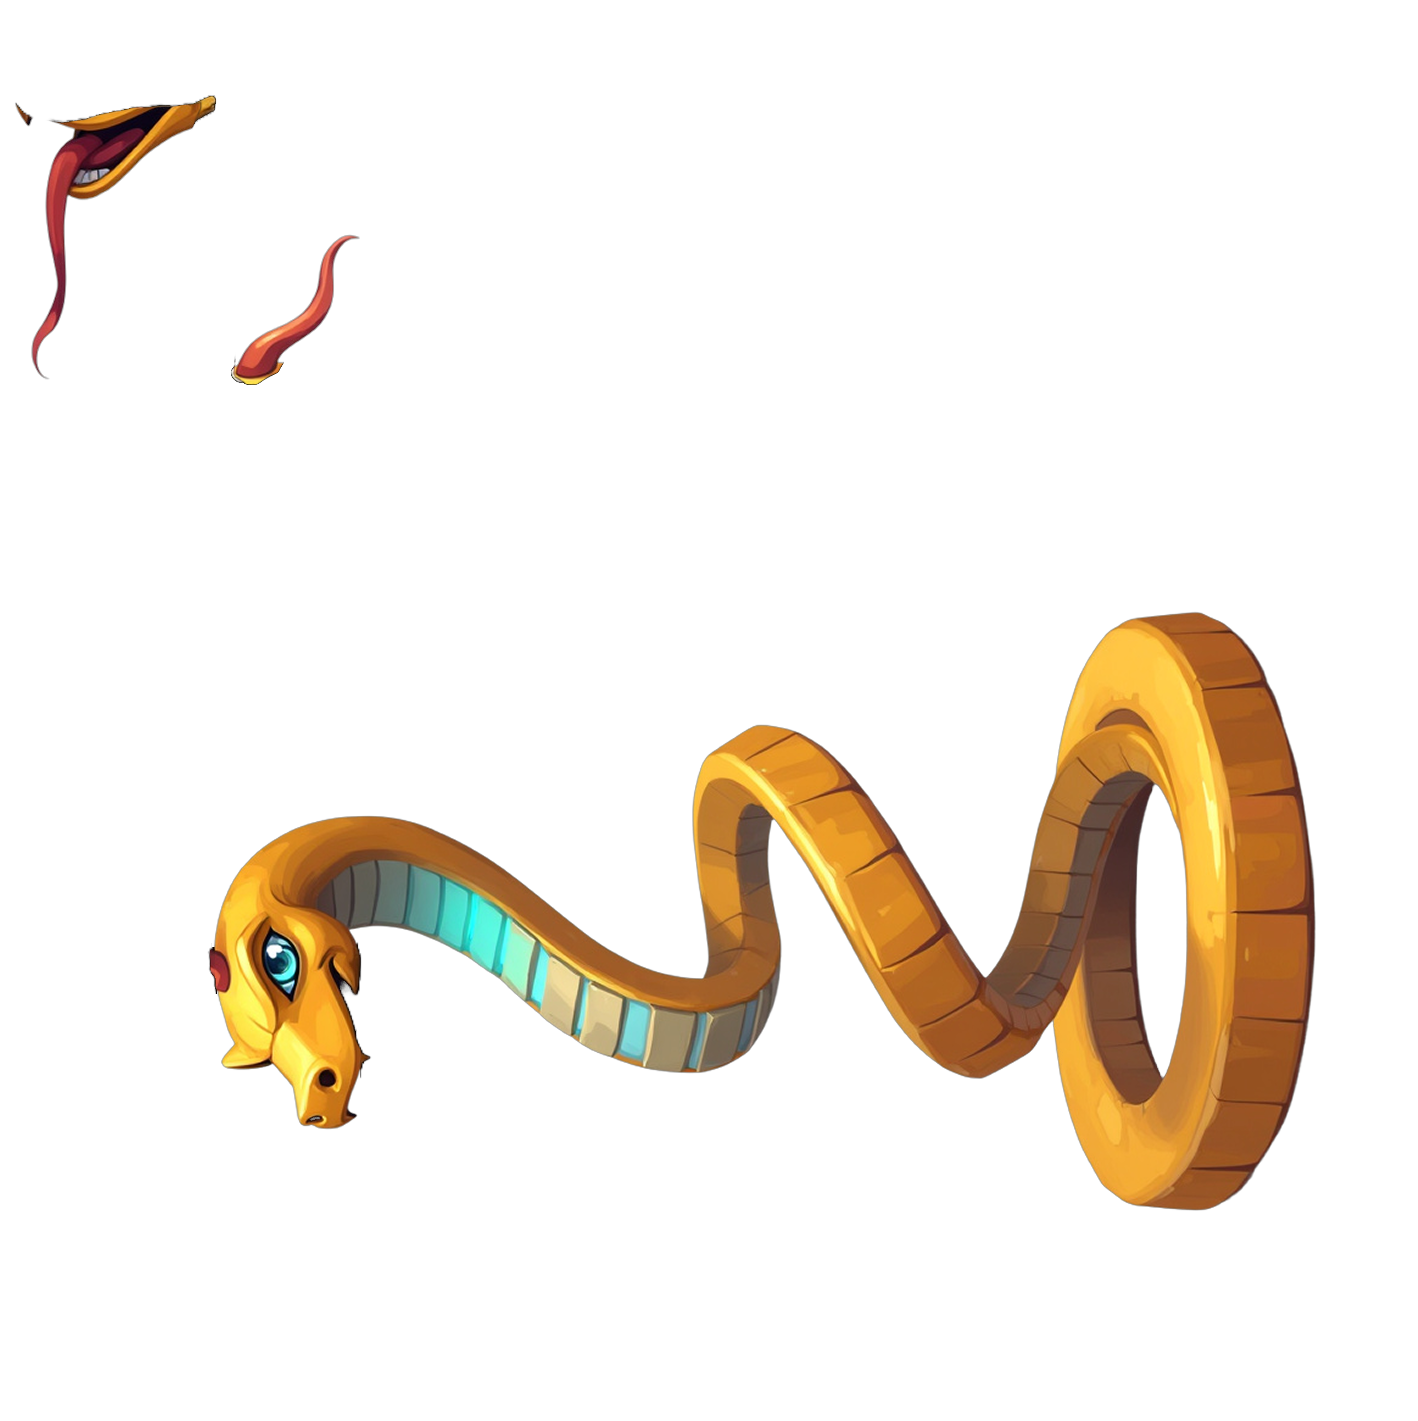
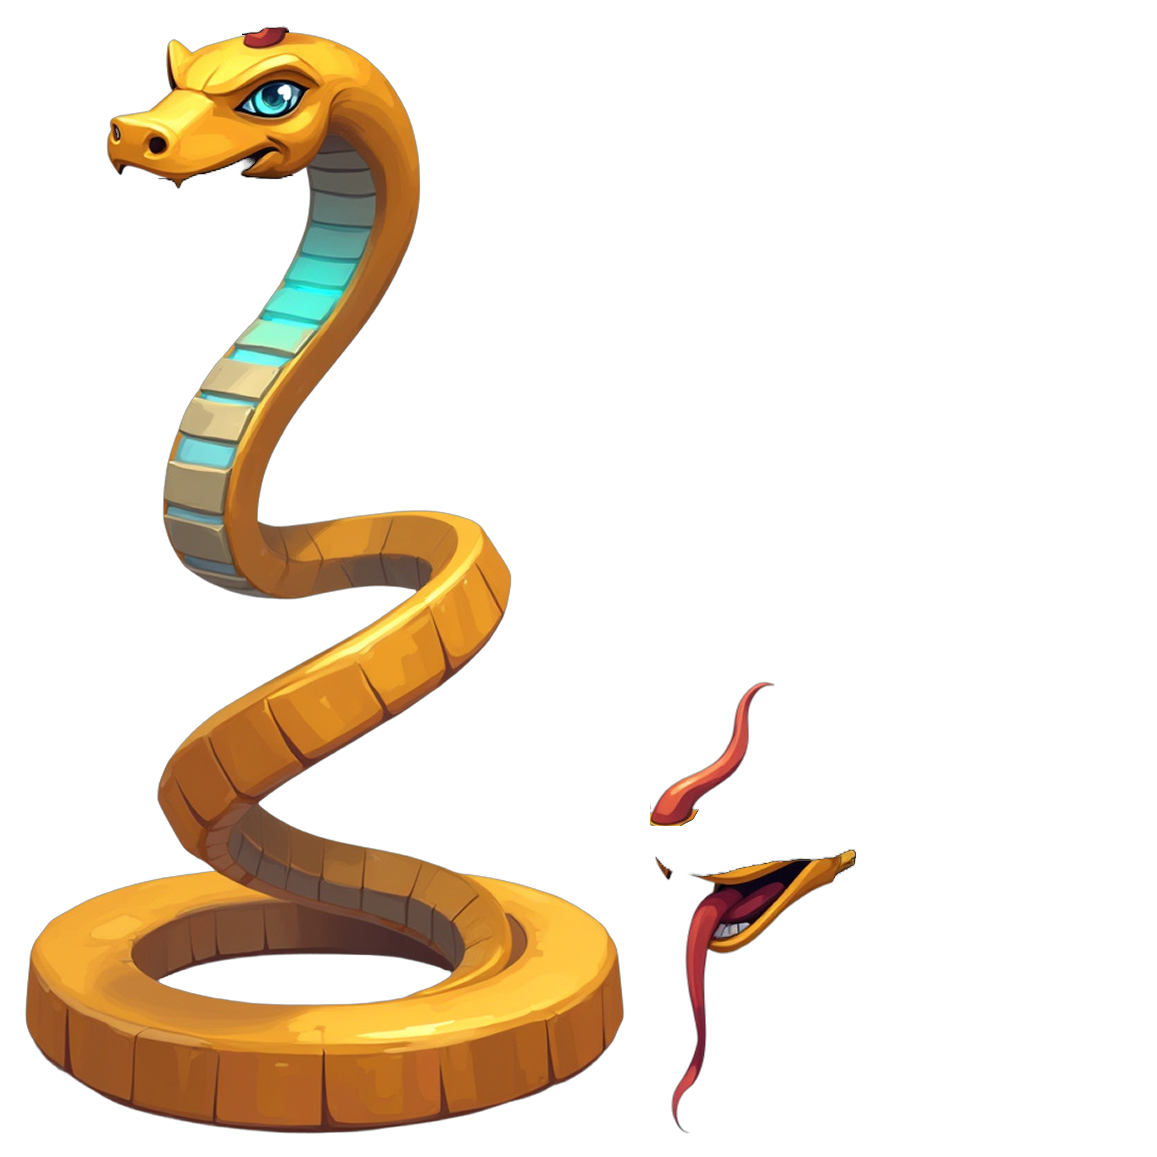
...

diff --git a/lib/snake_animation.dart b/lib/snake_animation.dart
@@ -39,16 +39,20 @@ class SnakeAnimation extends StatelessWidget {
     final controller = SpineWidgetController(onInitialized: (controller) {
       // Set the default mixing time between animations
       controller.animationState.getData().setDefaultMix(0.2);
-      // Set the portal animation on track 0
-      controller.animationState.setAnimationByName(0, "portal", true);
-      // Queue the run animation after the portal animation
-      controller.animationState.addAnimationByName(0, "run", true, 0);
+      // Set the animation on track 0
+      controller.animationState.setAnimationByName(0, "animation", true);
     });
 
     return Scaffold(
-      appBar: AppBar(title: const Text('Snake Animation')),  
-
-      body: SpineWidget.fromAsset("assets/Snake.atlas", "assets/Snake.json", controller)
-    );
+        appBar: AppBar(title: const Text('Snake Animation')),
+        body: Column(
+          children: [
+            Container(
+                width: MediaQuery.of(context).size.width,
+                height: 300,
+                child: SpineWidget.fromAsset(
+                    "assets/Snake.atlas.txt", "assets/Snake.json", controller)),
+          ],
+        ));
   }
 }
